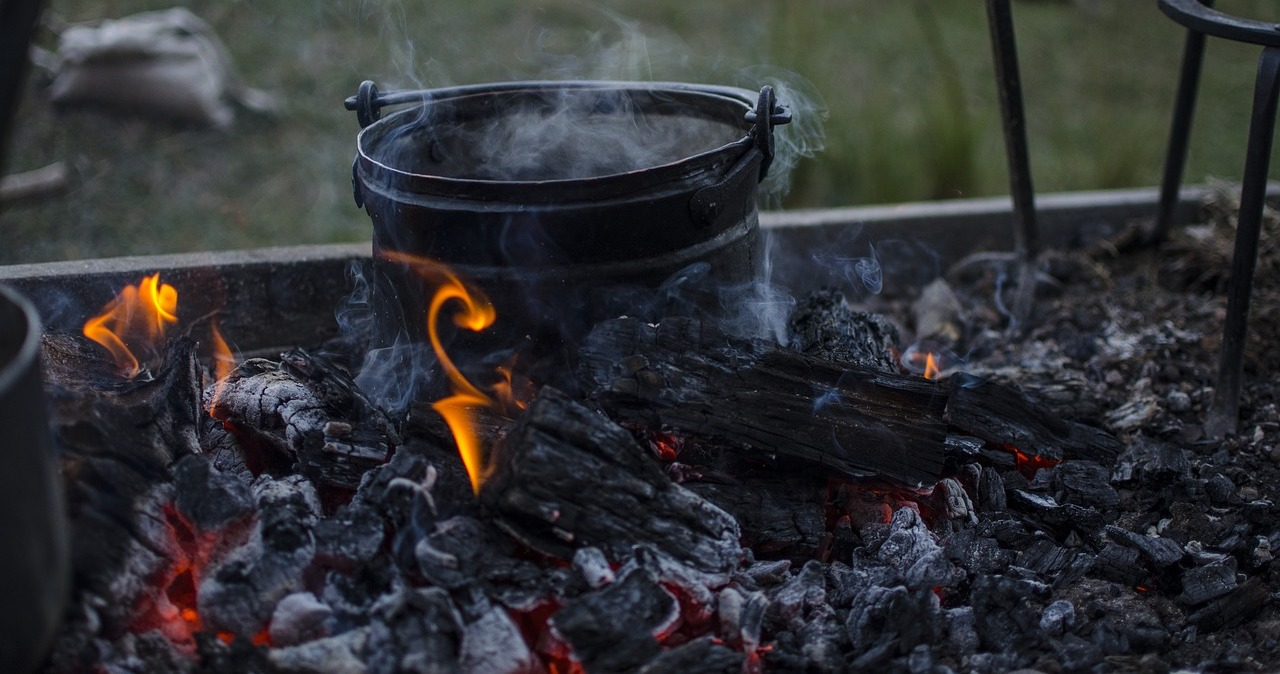
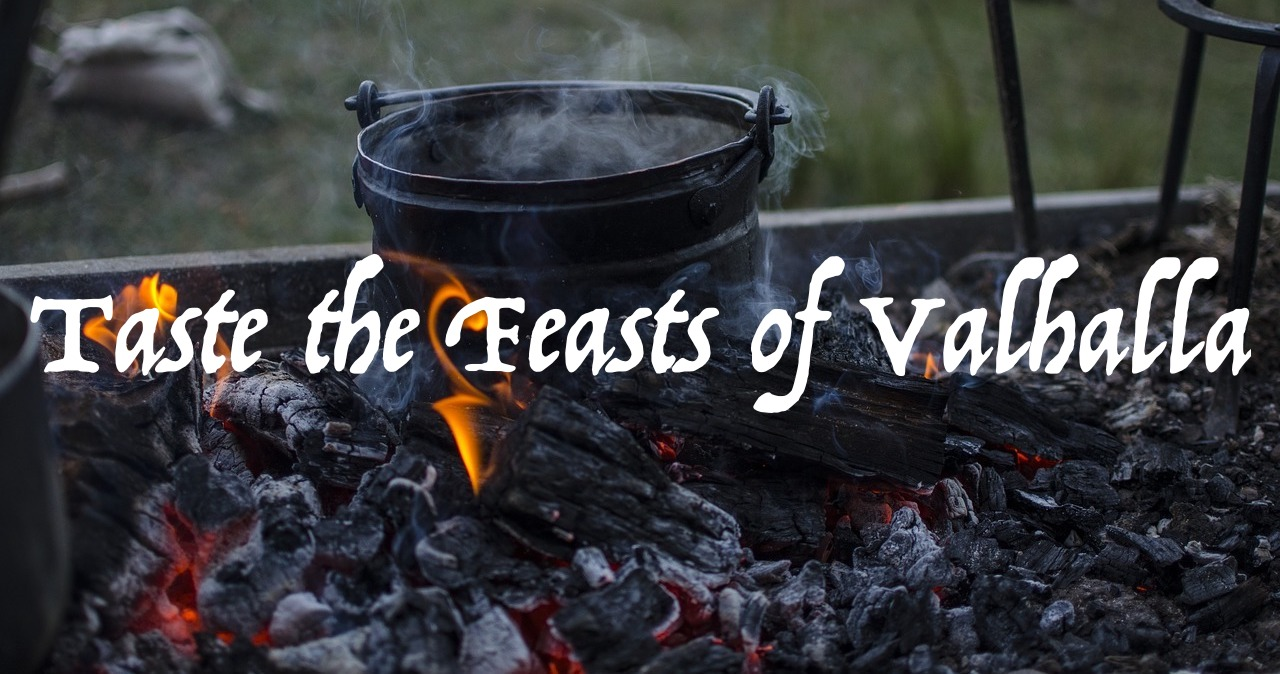
Responsive design

Changed region(s): [[0.0, 0.3739, 1.0, 0.6231]]

diff --git a/public/css/style.css b/public/css/style.css
@@ -1,6 +1,7 @@
+@import url('https://fonts.googleapis.com/css2?family=MedievalSharp&display=swap');
 body {
     background-color: #222222;
-    font-family: fantasy;
+    font-family: 'MedievalSharp', cursive;
     color: #DDD;
 }
 
@@ -16,6 +17,7 @@ body {
 nav {
     position: relative;
     text-align: center;
+    font-family: georgia;
 }
 
 nav ul {
@@ -44,22 +46,23 @@ li a:hover {
 }
 
 .heroSection {
-    position: relative;
-    text-align: center;
-    color: #ddd;
+    display: block;
 }
 
-.heroSection img {
+.heroSection img{
+    position: relative;
+    display: inline-block;
     width: 100%;
 }
 
-.heroSection h2 {
+.heroTitle {
     position: absolute;
-    top: 40%;
+    top: 50%;
     left: 50%;
-    transform: translate(-50%, -50%);
-    font-size: 5em;
-    white-space: nowrap;
+    transform: translate( -50%, -50% );
+    text-align: center;
+    color: white;
+    font-weight: bold;
 }
 
 .homeContentSection {
@@ -81,12 +84,12 @@ li a:hover {
 
 .perkCard {
     margin: 2%;
-    font-size: 3em;
+    font-size: 2.2em;
     text-align: center;
 }
 
 .perkCard img {
-    width: 50%;
+    width: 75%;
     margin: 5%
 }
 
@@ -156,15 +159,35 @@ li a:hover {
     padding-right: 50%;
 }
 
+.userDashboardContent {
+    text-align: center;
+}
+
 footer {
     background-color: #111;
     padding-top: 1%;
     text-align: center;
-    font-size: 16pt;
+    font-size: 0.4em;
 }
 
 footer img {
     margin-top: -5%;
     width: 2%;
     padding: 0.5%;
+}
+
+@media (orientation: portrait) {
+    .logo{
+        width: 50%;
+    }
+    .homePerks {
+        margin-left: 0%;
+        margin-right: 0%;
+    }
+    .mealsSection {
+        grid-template-columns: 1fr 1fr;
+    }
+    .loginRegister{
+        width: 75%;
+    }
 }
